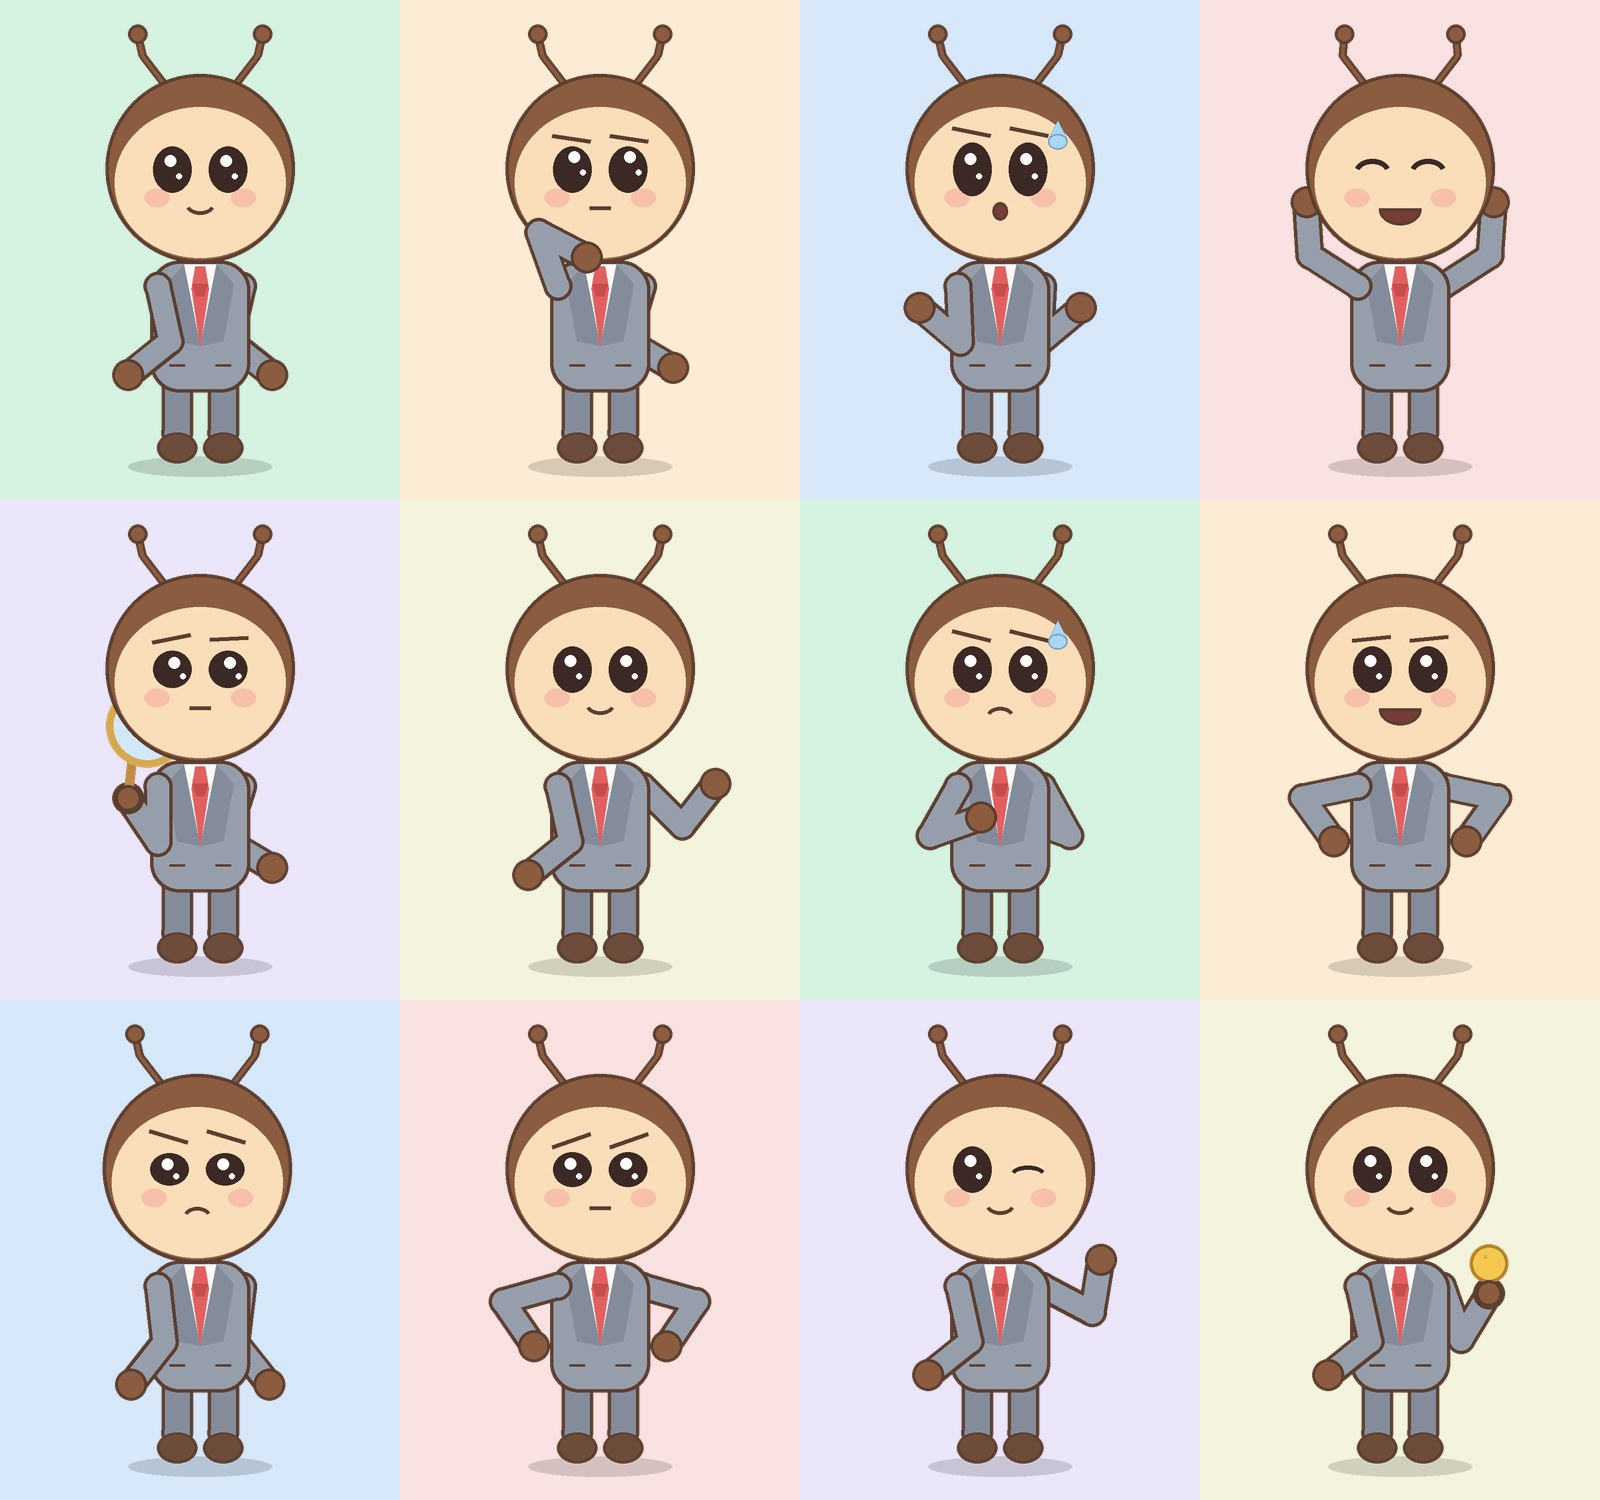
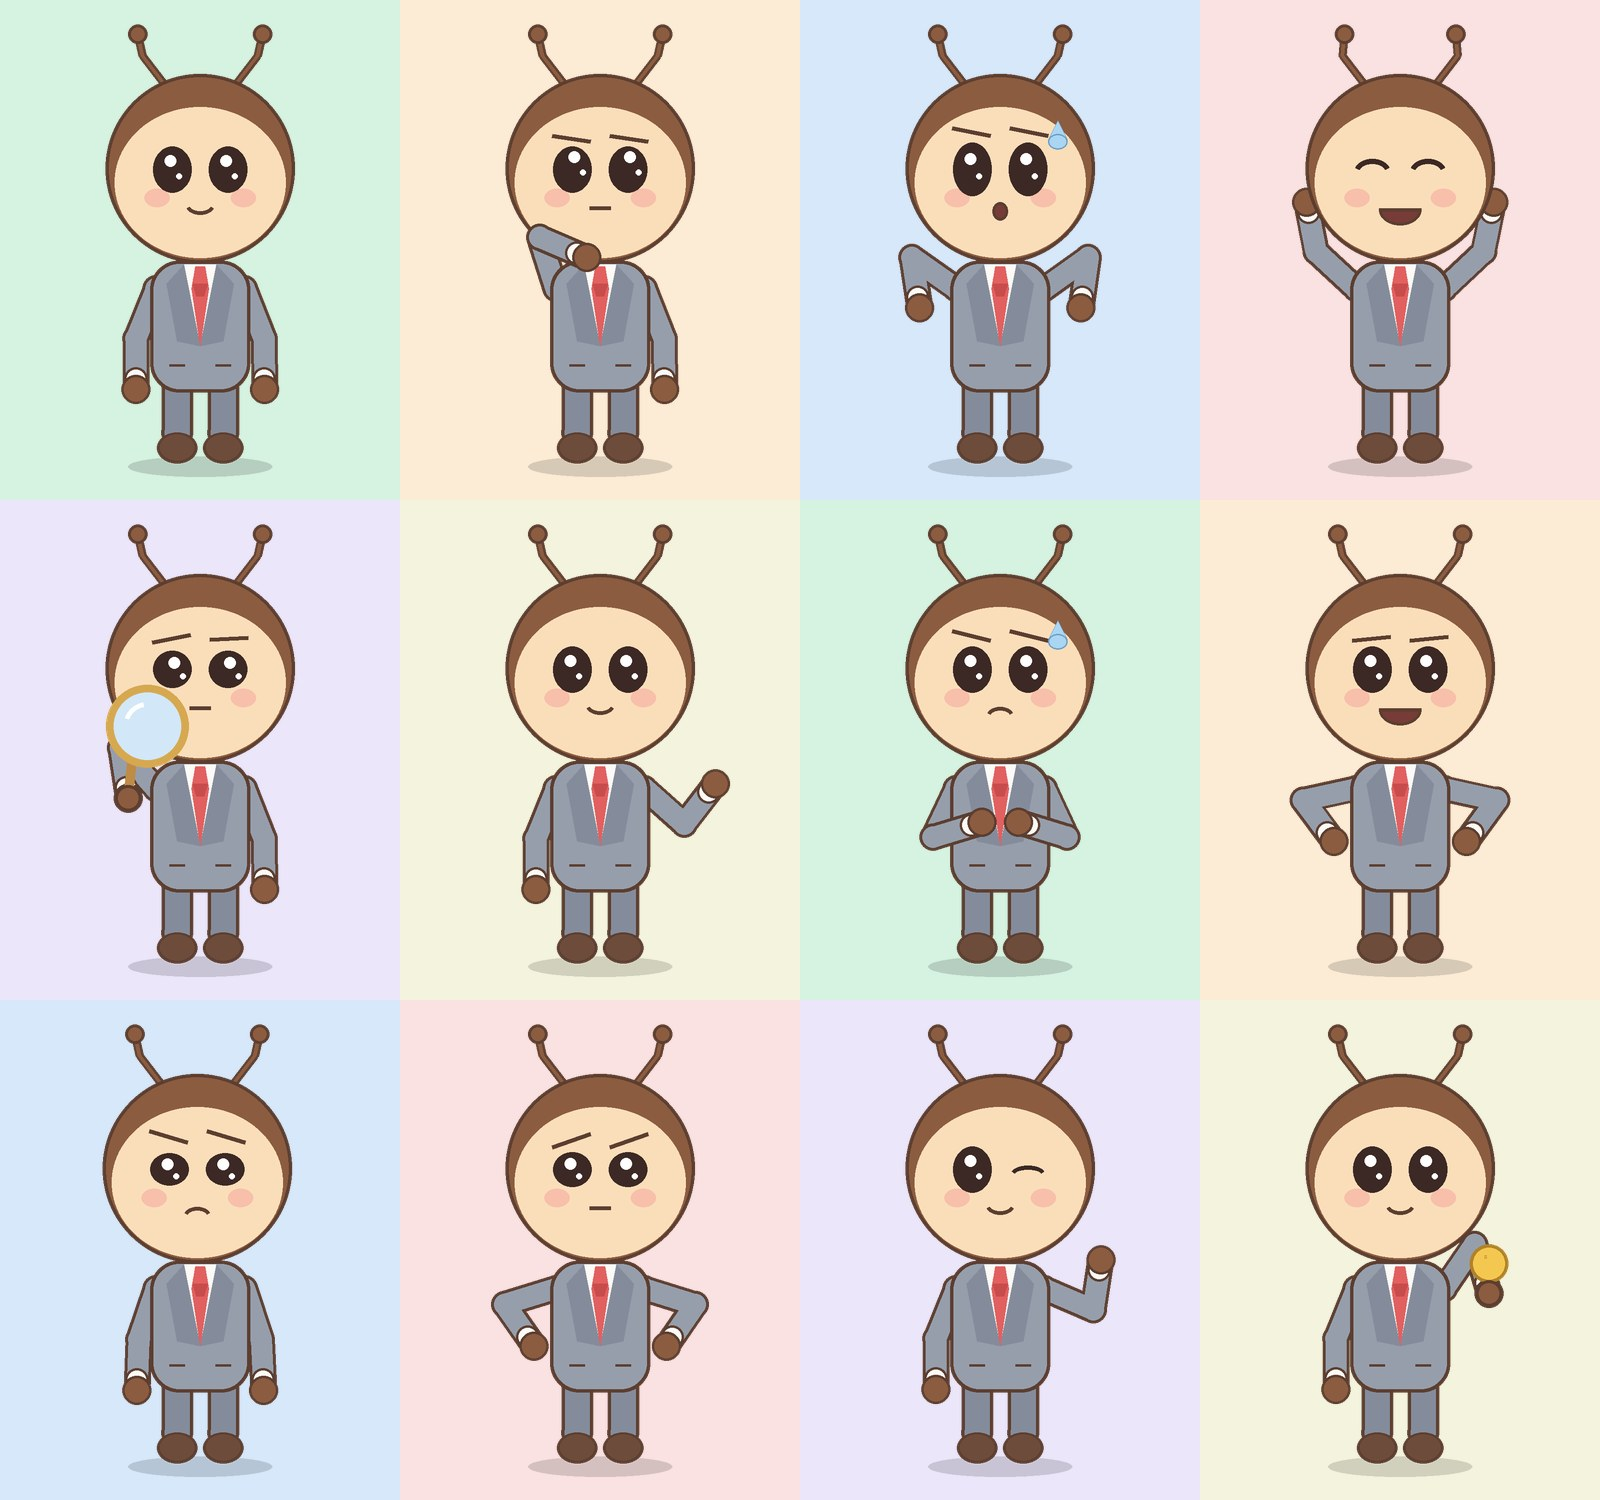
econ-video: 마스코트 팔 자연스럽게 수정(몸통 뒤에서 나오는 팔, 소매·커프스, 팔꿈치 자동 방향)
Claude-Session: https://claude.ai/code/session_01FimgvnFwUXoVfoVUHJw6eG

diff --git a/video-studio/studio/mascot.py b/video-studio/studio/mascot.py
@@ -29,8 +29,8 @@ BLUSH = (246, 170, 160)
 EYE = (60, 40, 36)
 SHADOW = (0, 0, 0, 38)
 
-SHOULDER_L = (312, 575)
-SHOULDER_R = (488, 575)
+SHOULDER_L = (308, 580)
+SHOULDER_R = (492, 580)
 HEAD_C = (400, 330)
 HEAD_R = 190
 
@@ -58,13 +58,40 @@ def _limb(dr, pts, width, fill, o=7):
             dr.ellipse([p[0] - w / 2, p[1] - w / 2, p[0] + w / 2, p[1] + w / 2], fill=c)
 
 
-def _arm(dr, shoulder, hand_t, side, bend=1):
-    e, hnd = _ik(shoulder, hand_t, 118, 112, side * bend)
-    _limb(dr, [shoulder, e, hnd], 46, SUIT)
-    r = 27
-    dr.ellipse([hnd[0] - r - 6, hnd[1] - r - 6, hnd[0] + r + 6, hnd[1] + r + 6], fill=OUTLINE)
+def _arm(dr, shoulder, hand_t, side, bend=None):
+    """어깨→손 목표점. 팔꿈치는 몸 바깥쪽으로 꺾이는 쪽을 자동으로 고른다(bend로 강제 가능)."""
+    outward = -1 if side < 0 else 1          # 왼팔은 -x, 오른팔은 +x가 바깥
+    best = None
+    for sg in (1, -1):
+        e, hnd = _ik(shoulder, hand_t, 112, 106, sg)
+        score = (e[0] - shoulder[0]) * outward
+        if bend is not None:
+            score = sg * bend
+        if best is None or score > best[0]:
+            best = (score, e, hnd)
+    _, e, hnd = best
+    # 소매(회색)와 손목 셔츠 커프스, 손
+    _limb(dr, [shoulder, e, hnd], 44, SUIT, o=6)
+    ux, uy = hnd[0] - e[0], hnd[1] - e[1]
+    n = math.hypot(ux, uy) or 1
+    cx, cy = hnd[0] - ux / n * 22, hnd[1] - uy / n * 22
+    dr.ellipse([cx - 24, cy - 24, cx + 24, cy + 24], fill=SHIRT, outline=OUTLINE, width=5)
+    r = 25
+    dr.ellipse([hnd[0] - r - 5, hnd[1] - r - 5, hnd[0] + r + 5, hnd[1] + r + 5], fill=OUTLINE)
     dr.ellipse([hnd[0] - r, hnd[1] - r, hnd[0] + r, hnd[1] + r], fill=HAND)
-    return hnd
+    return hnd, e
+
+
+def _forearm(dr, e, hnd):
+    """몸·머리 앞으로 나와야 하는 팔(턱 괴기 등)의 팔꿈치→손만 다시 그린다."""
+    _limb(dr, [e, hnd], 44, SUIT, o=6)
+    ux, uy = hnd[0] - e[0], hnd[1] - e[1]
+    n = math.hypot(ux, uy) or 1
+    cx, cy = hnd[0] - ux / n * 22, hnd[1] - uy / n * 22
+    dr.ellipse([cx - 24, cy - 24, cx + 24, cy + 24], fill=SHIRT, outline=OUTLINE, width=5)
+    r = 25
+    dr.ellipse([hnd[0] - r - 5, hnd[1] - r - 5, hnd[0] + r + 5, hnd[1] + r + 5], fill=OUTLINE)
+    dr.ellipse([hnd[0] - r, hnd[1] - r, hnd[0] + r, hnd[1] + r], fill=HAND)
 
 
 def _magnifier(dr, hand):
@@ -144,7 +171,12 @@ def draw_ant(pose, height=900):
         dr.ellipse([x - 36, 884 + bob / 2, x + 36, 938], fill=SHOE)
     # 뒤쪽 팔 (오른쪽)
     tr = p.get("hand_r", (545, 735))
-    hand_r = _arm(dr, (SHOULDER_R[0], SHOULDER_R[1] + bob), tr, 1, p.get("bend_r", 1))
+    hand_r, elb_r = _arm(dr, (SHOULDER_R[0], SHOULDER_R[1] + bob), tr, 1, p.get("bend_r"))
+    # 왼쪽 팔 (몸통 뒤에서 나오게 몸통보다 먼저 그린다)
+    tl = p.get("hand_l", (255, 735))
+    hand_l, elb_l = _arm(dr, (SHOULDER_L[0], SHOULDER_L[1] + bob), tl, -1, p.get("bend_l"))
+    # 소품
+
     # 몸통
     top = 500 + bob
     dr.rounded_rectangle([296, top + 22, 504, 796], radius=60, fill=OUTLINE)
@@ -156,11 +188,6 @@ def draw_ant(pose, height=900):
     dr.polygon([(384, top + 70), (416, top + 70), (408, top + 96), (392, top + 96)], fill=(200, 76, 76))
     dr.line([(336, 740), (368, 740)], fill=OUTLINE, width=5)
     dr.line([(432, 740), (464, 740)], fill=OUTLINE, width=5)
-    # 앞쪽 팔 (왼쪽)
-    tl = p.get("hand_l", (255, 735))
-    hand_l = _arm(dr, (SHOULDER_L[0], SHOULDER_L[1] + bob), tl, -1, p.get("bend_l", 1))
-    # 소품
-
     # 머리
     hx, hy = HEAD_C[0] + tilt, HEAD_C[1] + bob
     head = Image.new("RGBA", (W, H), (0, 0, 0, 0))
@@ -193,9 +220,11 @@ def draw_ant(pose, height=900):
     big.alpha_composite(face)
 
     # 팔이 얼굴 앞에 오는 자세(턱 괴기 등)는 팔을 한 번 더 위에 그린다
-    if p.get("arm_front"):
-        dr2 = ImageDraw.Draw(big, "RGBA")
-        _arm(dr2, (SHOULDER_L[0], SHOULDER_L[1] + bob), tl, -1, p.get("bend_l", 1))
+    dr2 = ImageDraw.Draw(big, "RGBA")
+    if p.get("front_l") or p.get("arm_front"):
+        _forearm(dr2, elb_l, hand_l)
+    if p.get("front_r"):
+        _forearm(dr2, elb_r, hand_r)
 
     prop = p.get("prop")
     dr3 = ImageDraw.Draw(big, "RGBA")
@@ -210,18 +239,17 @@ def draw_ant(pose, height=900):
 
 # 표정·자세 12종 (손 목표점은 가상 좌표)
 POSES = {
-    "기본": dict(mouth="smile", brows=None, hand_l=(250, 760), hand_r=(550, 760)),
-    "고민": dict(mouth="flat", brows=(-6, 6, 0), look=(1, -1), hand_l=(372, 515), hand_r=(552, 745),
-                 bend_l=1, arm_front=True),
+    "기본": dict(mouth="smile", brows=None, hand_l=(266, 790), hand_r=(534, 790)),
+    "고민": dict(mouth="flat", brows=(-6, 6, 0), look=(1, -1), hand_l=(372, 515), hand_r=(534, 790), arm_front=True),
     "놀람": dict(mouth="o", eye_open=1.15, brows=(-8, 8, -14), sweat=True, hand_l=(232, 620), hand_r=(568, 620)),
     "환호": dict(mouth="grin", happy_eyes=True, brows=None, hand_l=(205, 400), hand_r=(595, 400), antenna=14),
     "의심": dict(mouth="flat", eye_open=0.8, brows=(8, -2, 0), look=(1, 0), hand_l=(250, 600),
-                 hand_r=(550, 745), prop="magnifier"),
-    "설명": dict(mouth="smile", brows=None, hand_l=(250, 760), hand_r=(640, 570)),
-    "걱정": dict(mouth="frown", brows=(-10, 10, -6), sweat=True, hand_l=(360, 640), hand_r=(440, 640), bend_l=-1, bend_r=-1),
-    "자신감": dict(mouth="grin", brows=(4, -4, 0), hand_l=(262, 690), hand_r=(538, 690), bend_l=-1, bend_r=-1),
-    "슬픔": dict(mouth="frown", eye_open=0.7, brows=(-12, 12, -4), hand_l=(256, 780), hand_r=(544, 780), head_tilt=-6),
-    "화남": dict(mouth="flat", eye_open=0.75, brows=(14, -14, 4), hand_l=(262, 700), hand_r=(538, 700), bend_l=-1, bend_r=-1),
-    "윙크": dict(mouth="smile", wink=True, brows=None, hand_l=(250, 760), hand_r=(610, 520), prop=None),
-    "동전": dict(mouth="smile", brows=None, hand_l=(250, 760), hand_r=(585, 590), prop="coin"),
+                 hand_r=(534, 790), prop="magnifier"),
+    "설명": dict(mouth="smile", brows=None, hand_l=(266, 790), hand_r=(640, 570)),
+    "걱정": dict(mouth="frown", brows=(-10, 10, -6), sweat=True, hand_l=(362, 650), hand_r=(438, 650), front_l=True, front_r=True),
+    "자신감": dict(mouth="grin", brows=(4, -4, 0), hand_l=(262, 690), hand_r=(538, 690)),
+    "슬픔": dict(mouth="frown", eye_open=0.7, brows=(-12, 12, -4), hand_l=(268, 792), hand_r=(532, 792), head_tilt=-6),
+    "화남": dict(mouth="flat", eye_open=0.75, brows=(14, -14, 4), hand_l=(262, 700), hand_r=(538, 700)),
+    "윙크": dict(mouth="smile", wink=True, brows=None, hand_l=(266, 790), hand_r=(610, 520), prop=None),
+    "동전": dict(mouth="smile", brows=None, hand_l=(266, 790), hand_r=(585, 590), prop="coin"),
 }
